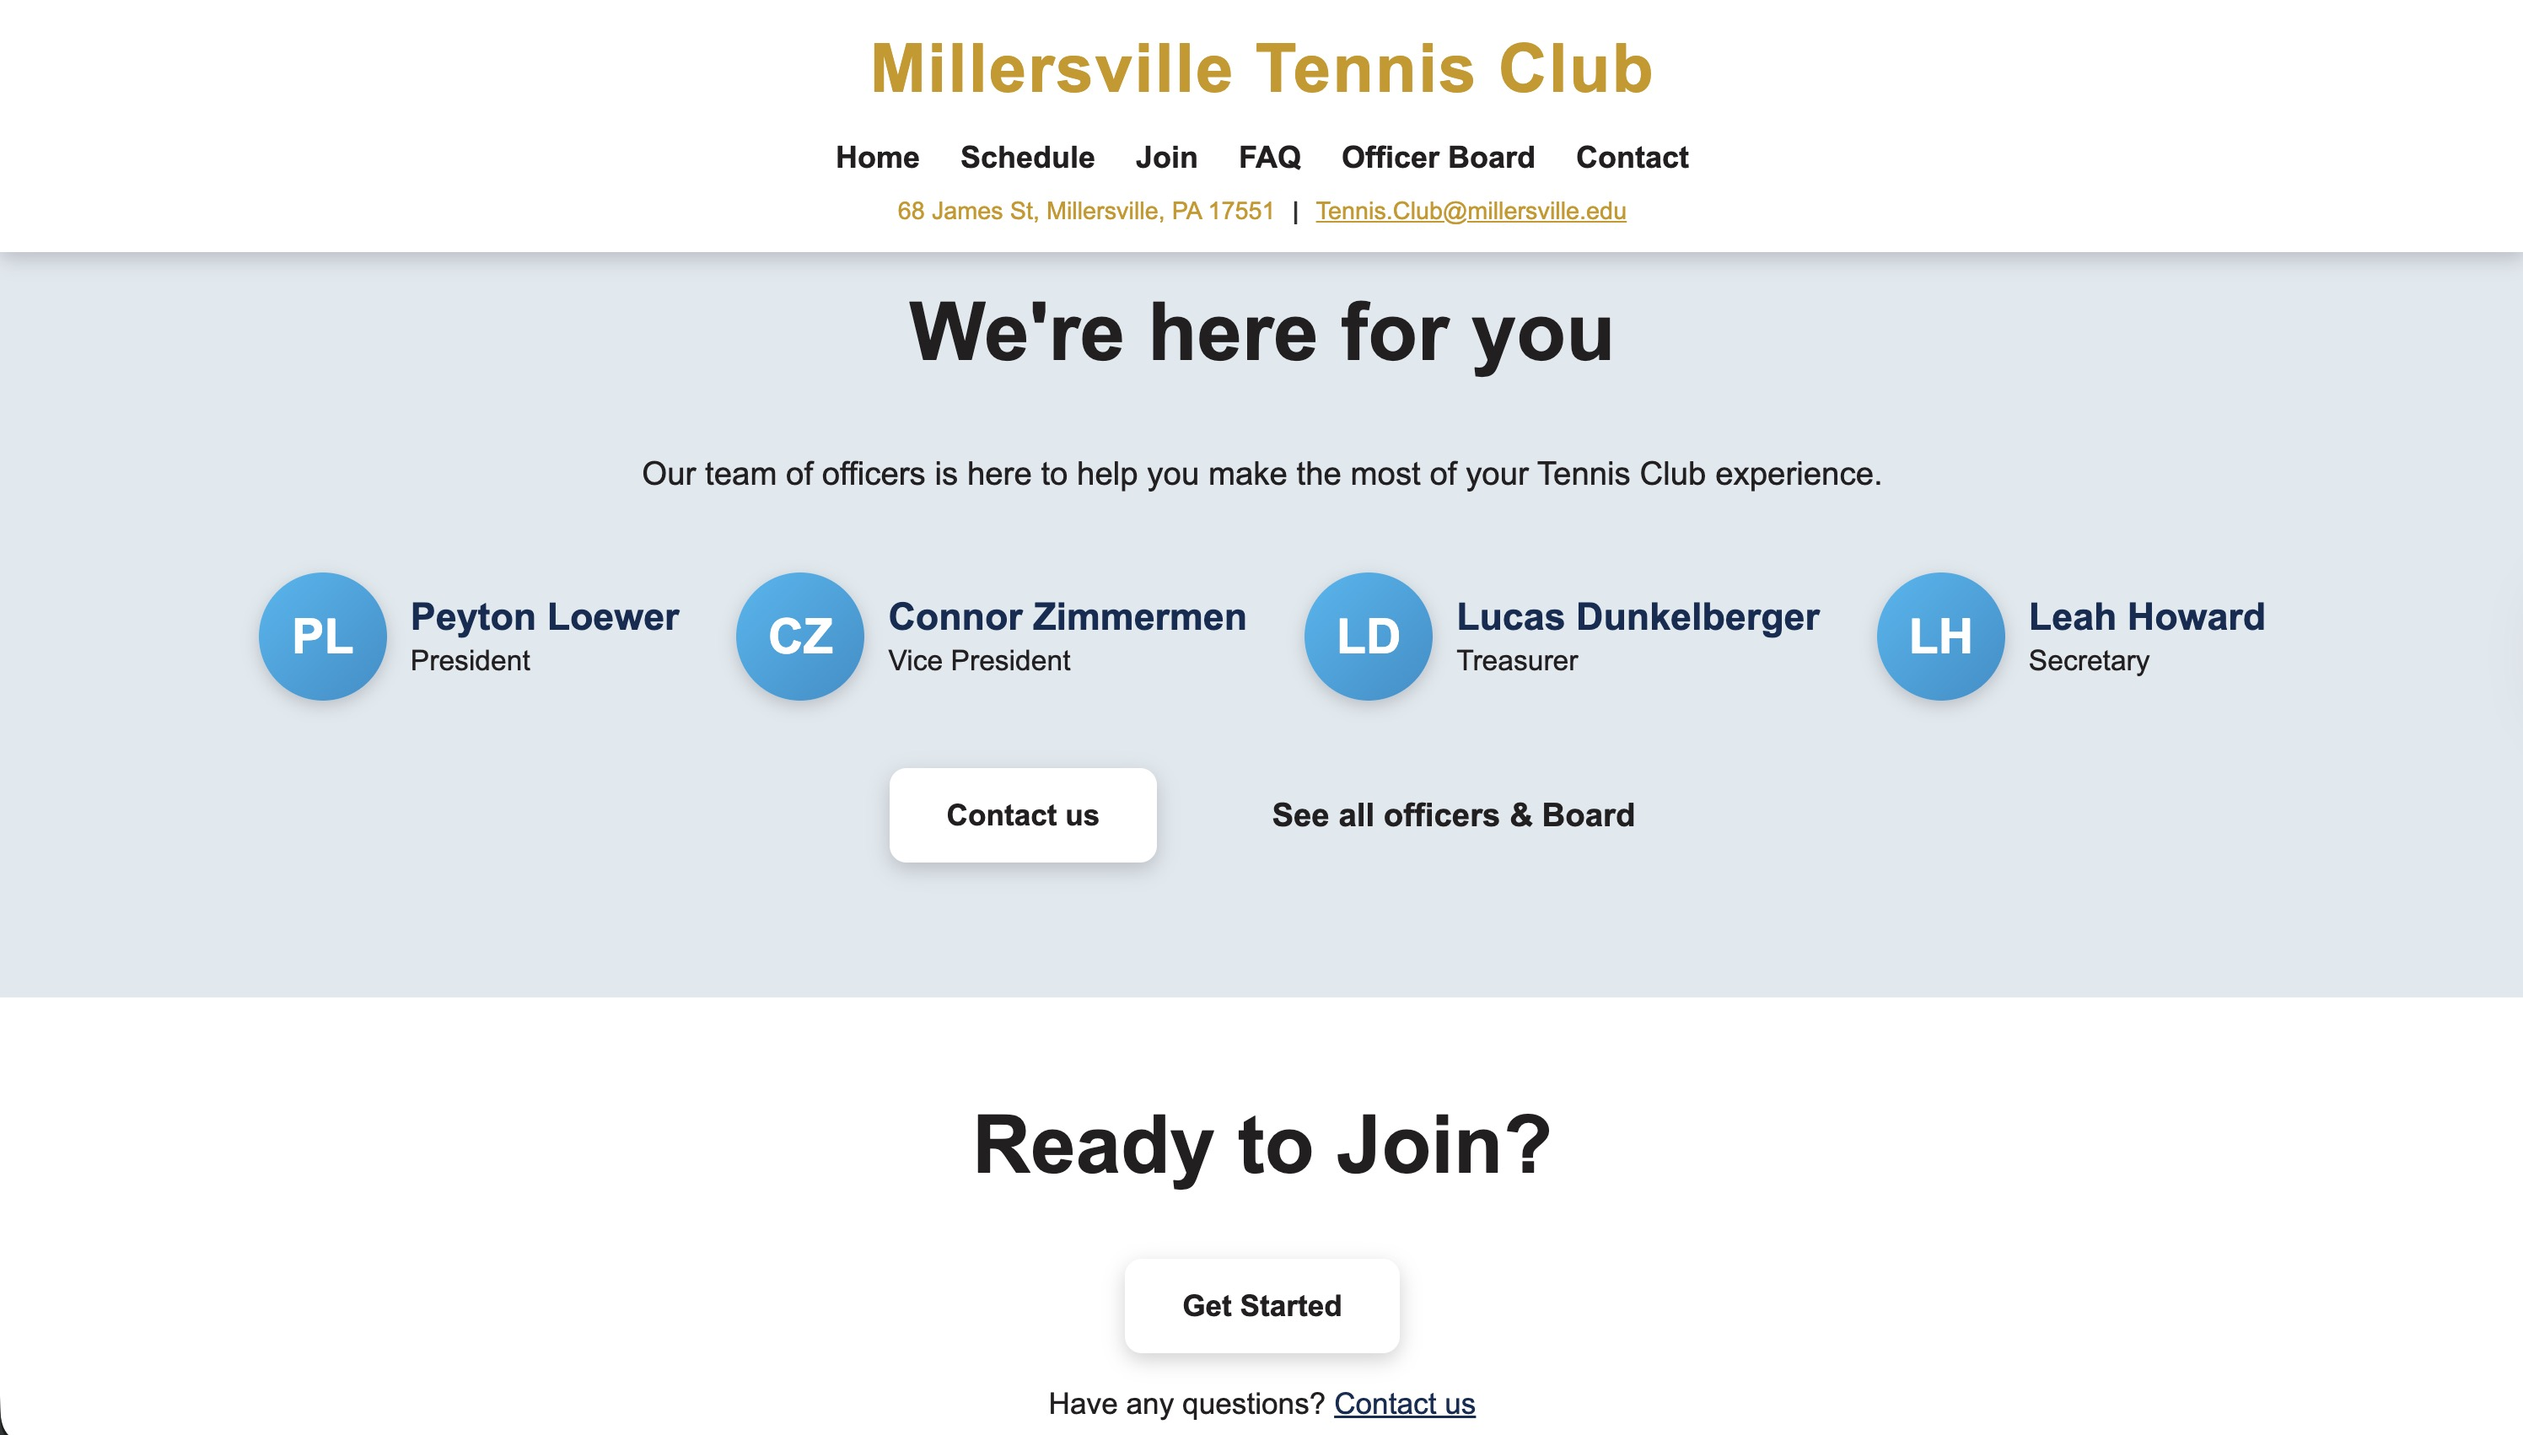
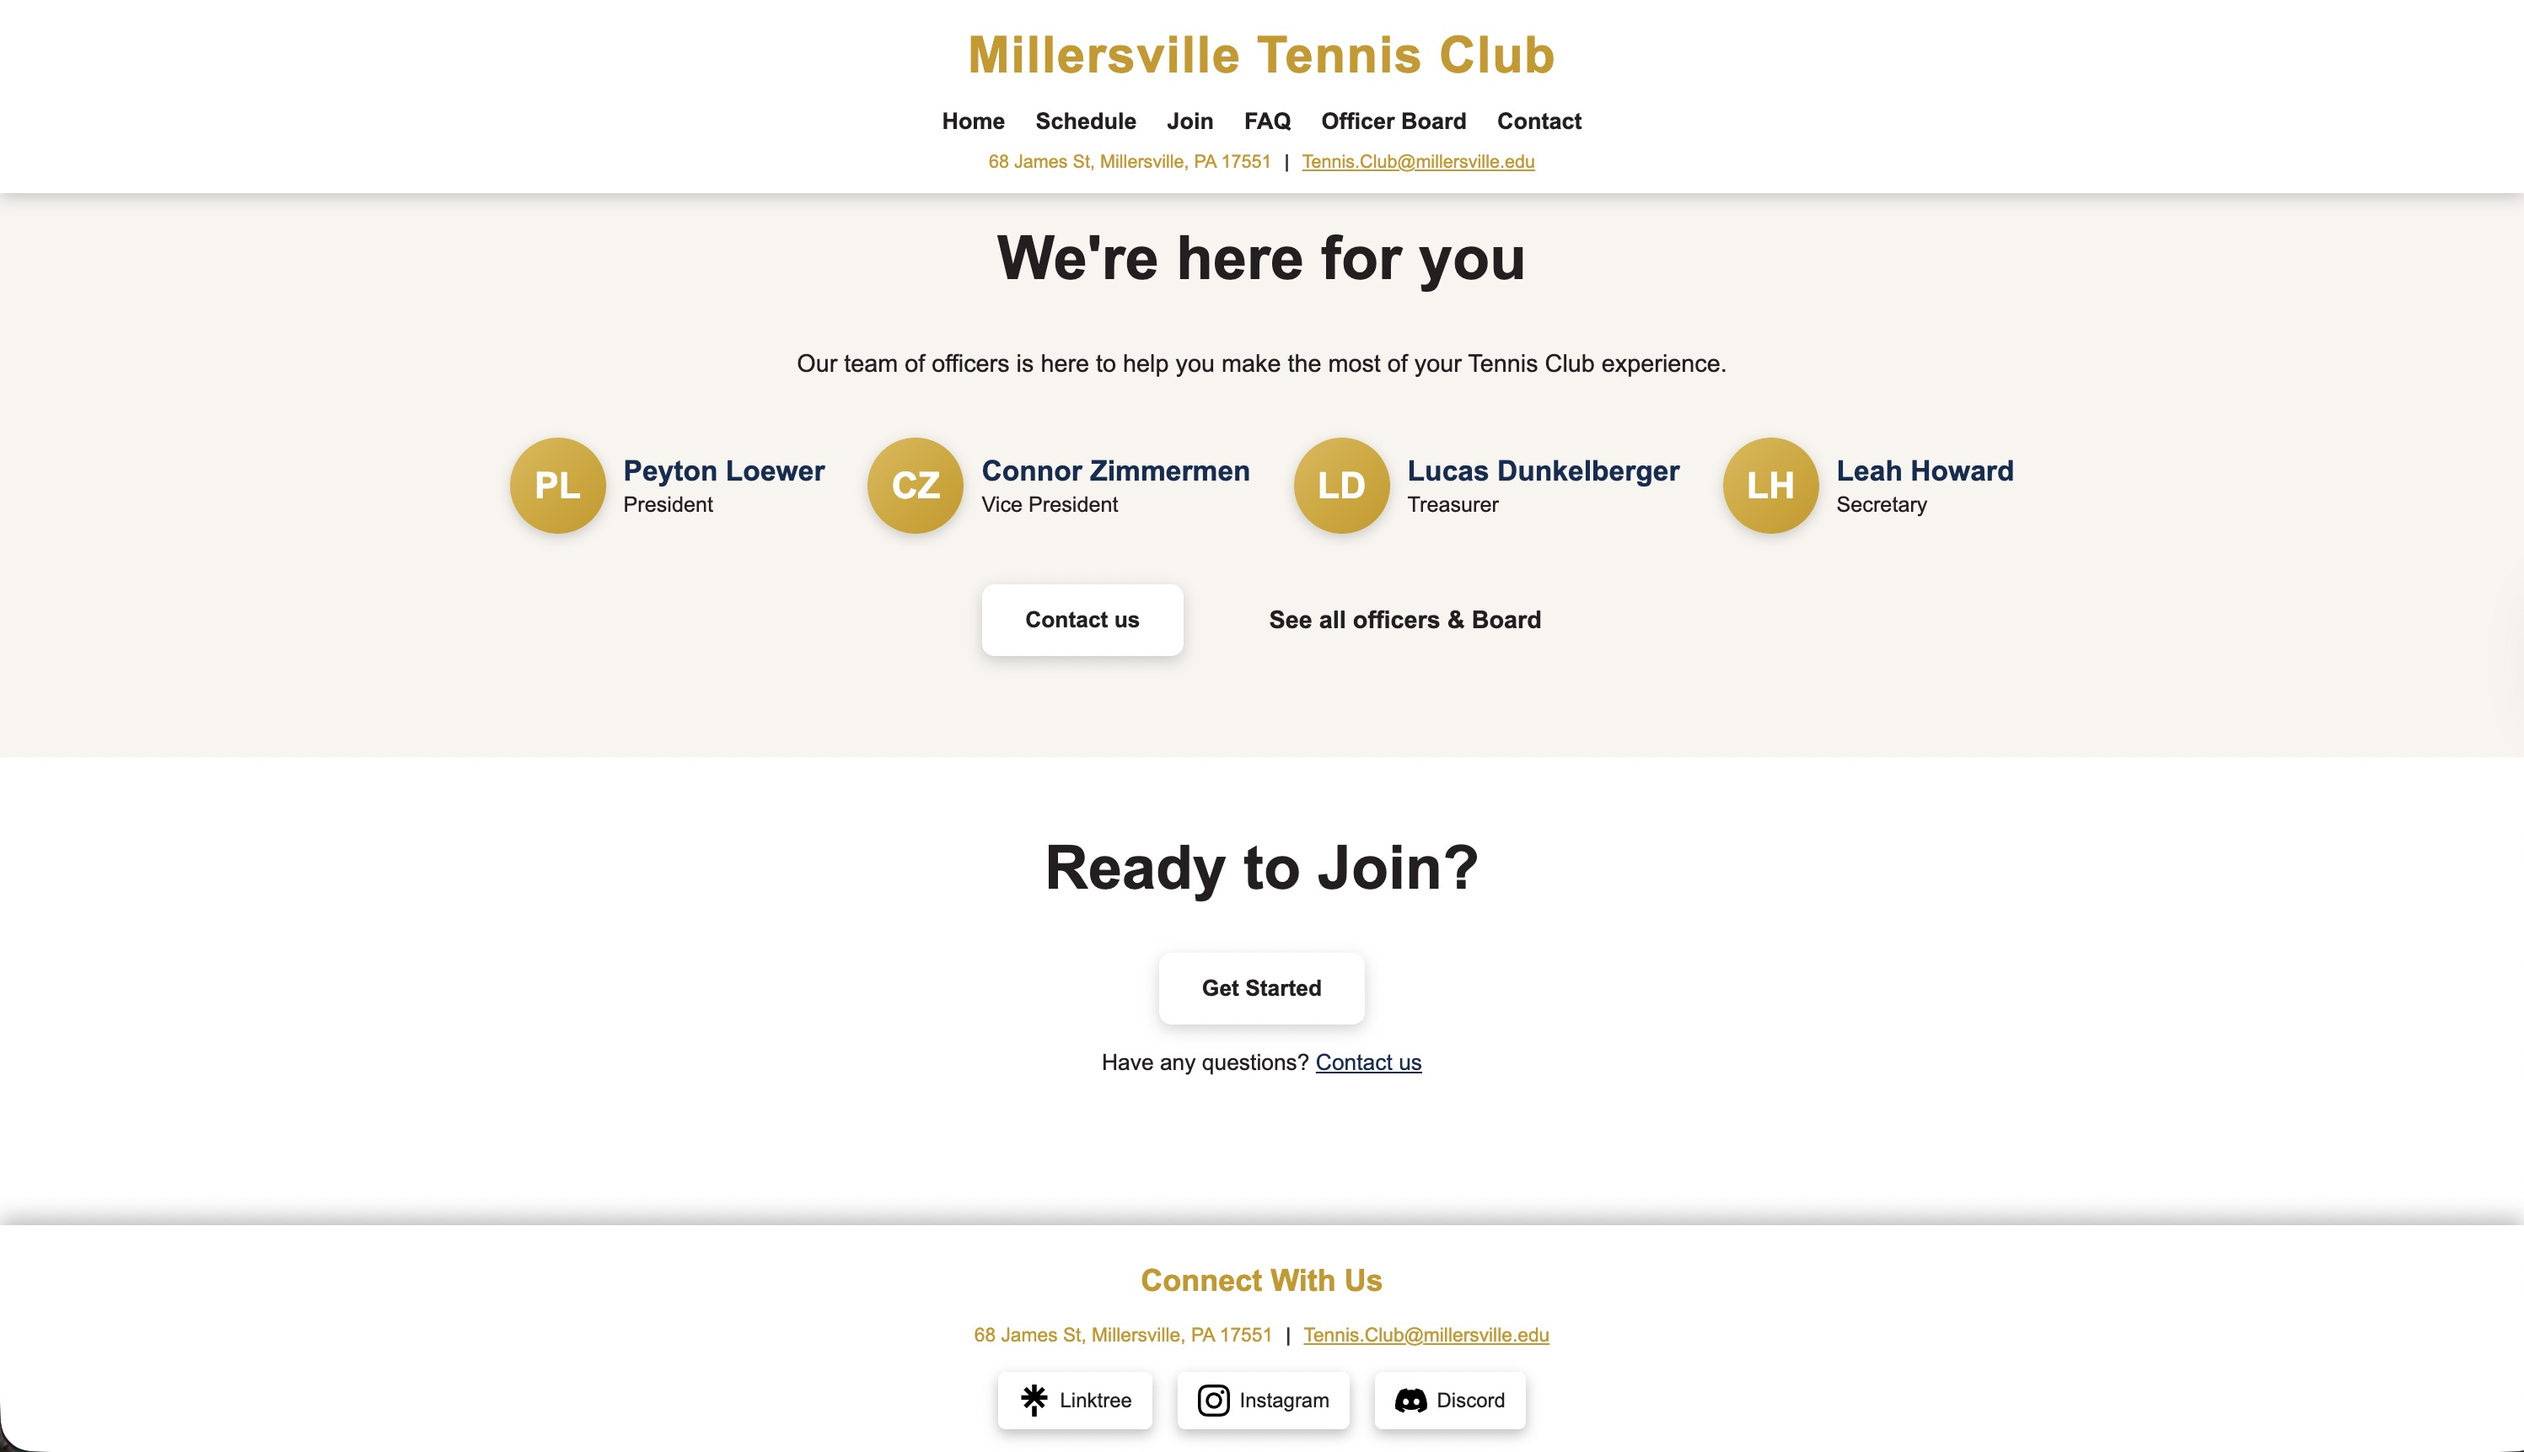
style/Updated officers sections colors for the clients

diff --git a/src/index.css b/src/index.css
@@ -36,6 +36,9 @@
   --millersville-light-gray: #f5f5f5c7;
   --millersville-dark-gray: #333333;
 
+  --warm-gold: #F8F5F0;
+  --soft-light-gray-blue: #F5F7FA;
+
   --header-shadow: 0 4px 12px rgba(0, 0, 0, 0.18);
 }
 
@@ -787,7 +790,7 @@ a {
 
 .officers-section {
   padding: 80px 20px;
-  background-color: #dfe8ee;
+  background-color: var(--warm-gold);
 }
 
 .officers-container {
@@ -1069,7 +1072,7 @@ a {
   display: flex;
   align-items: center;
   justify-content: center;
-  background: linear-gradient(135deg, #26b8f2, #1d8fca);
+  background: linear-gradient(135deg, #e0b84f, #c99700);
   color: var(--millersville-white);
   font-size: 1.4rem;
   font-weight: 700;
